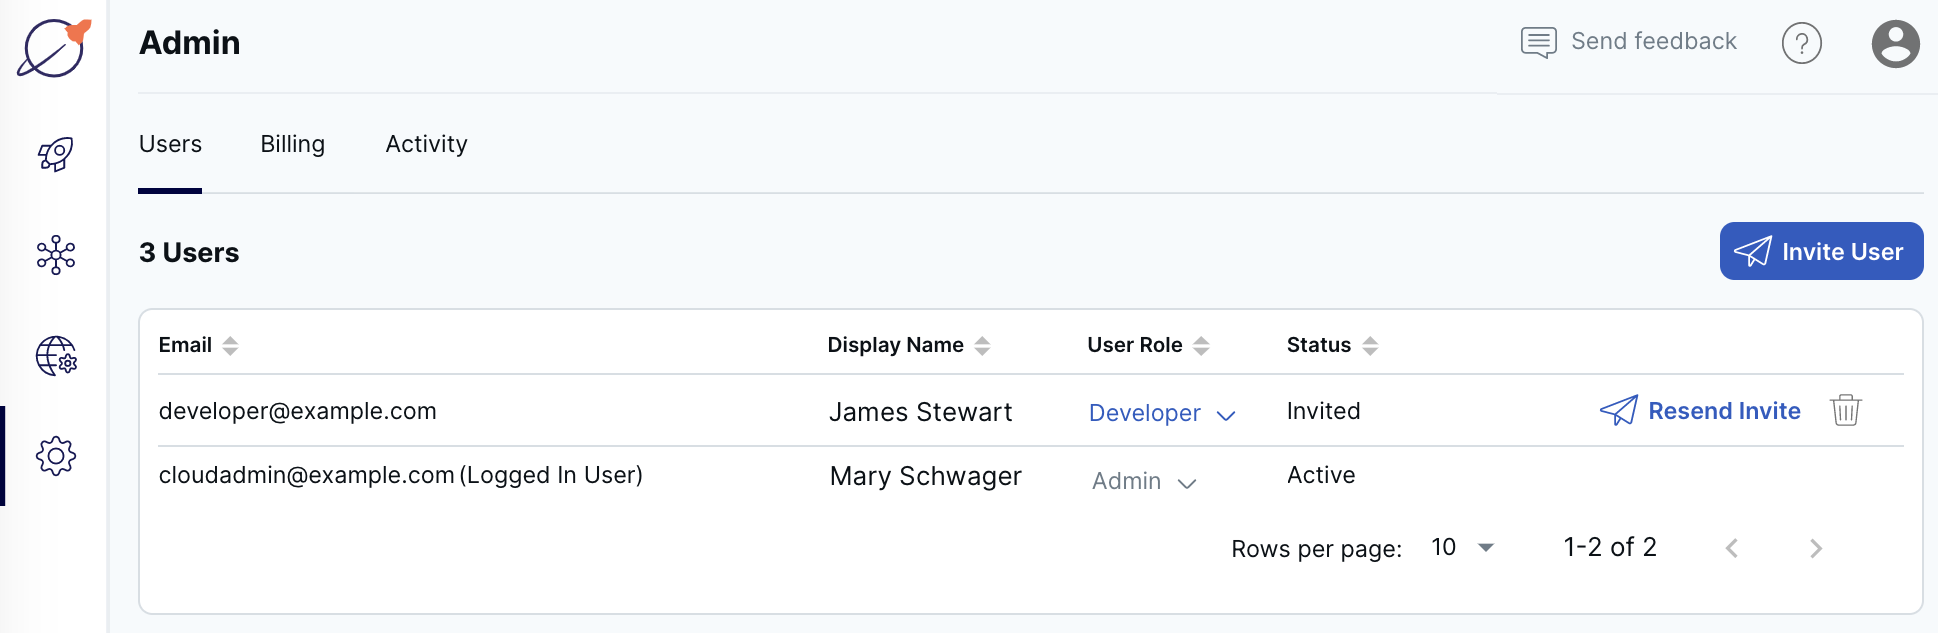
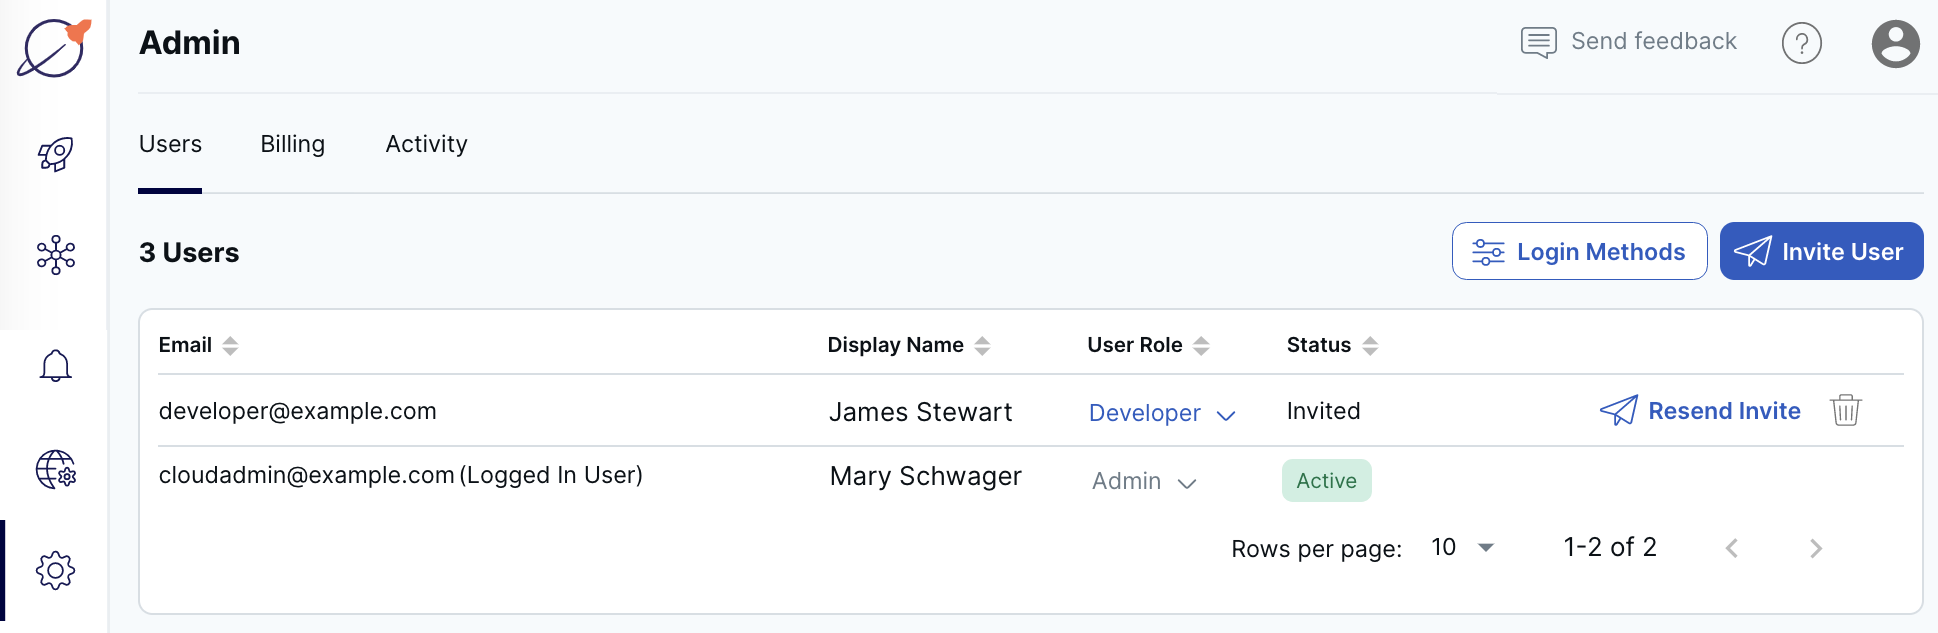
[docs][cloud] Login methods (#12726)

diff --git a/docs/content/preview/yugabyte-cloud/cloud-admin/manage-access.md b/docs/content/preview/yugabyte-cloud/cloud-admin/manage-access.md
@@ -13,9 +13,9 @@ isTocNested: true
 showAsideToc: true
 ---
 
-Invite team members to your account so that they can create, manage, and connect to clusters.
+Invite team members to your account so that they can create, manage, and connect to clusters. You can also manage the login methods available to users for signing in to your YugabyteDB Managed account.
 
-You must be signed in as an Admin user to invite other users.
+You must be signed in as an Admin user to invite other users, change roles, and manage login methods.
 
 The **Users** tab displays a list of users that are either active or have been invited, including their email, display name, role, and status.
 
@@ -33,11 +33,25 @@ Admin users have full access to all features. There must always be at least one 
 
 Developer users have access to all features, with the exception of administrative tasks, including the following:
 
-- invite users.
-- delete or change the role of other users.
-- create a billing profile.
+- invite users
+- delete or change the role of other users
+- change login methods
+- create a billing profile
+- view account activity
 
 To access a cluster database, you need to ask an Admin for the username and password of a [database user created on your behalf](../../cloud-secure-clusters/add-users/).
+
+## Manage login methods
+
+Users can log in to YugabyteDB Managed using either an email-based account or a social login. The available social logins include Google, GitHub, and LinkedIn. All three are enabled by default. Only an Admin user can modify the login methods.
+
+To manage the social logins available to users, do the following:
+
+1. On the **Admin** page, select the **Users** tab, then click **Login Methods** to display the **Login Methods** dialog.
+1. Enable the social logins you want to use.
+1. Click **Save Changes**.
+
+If you revoke a social login that is already in use, users using that social login can either [reset their password](#reset-your-password) to configure email-based login, or sign in using a different social login. The social account must be associated with the same email address.
 
 ## Invite users
 
